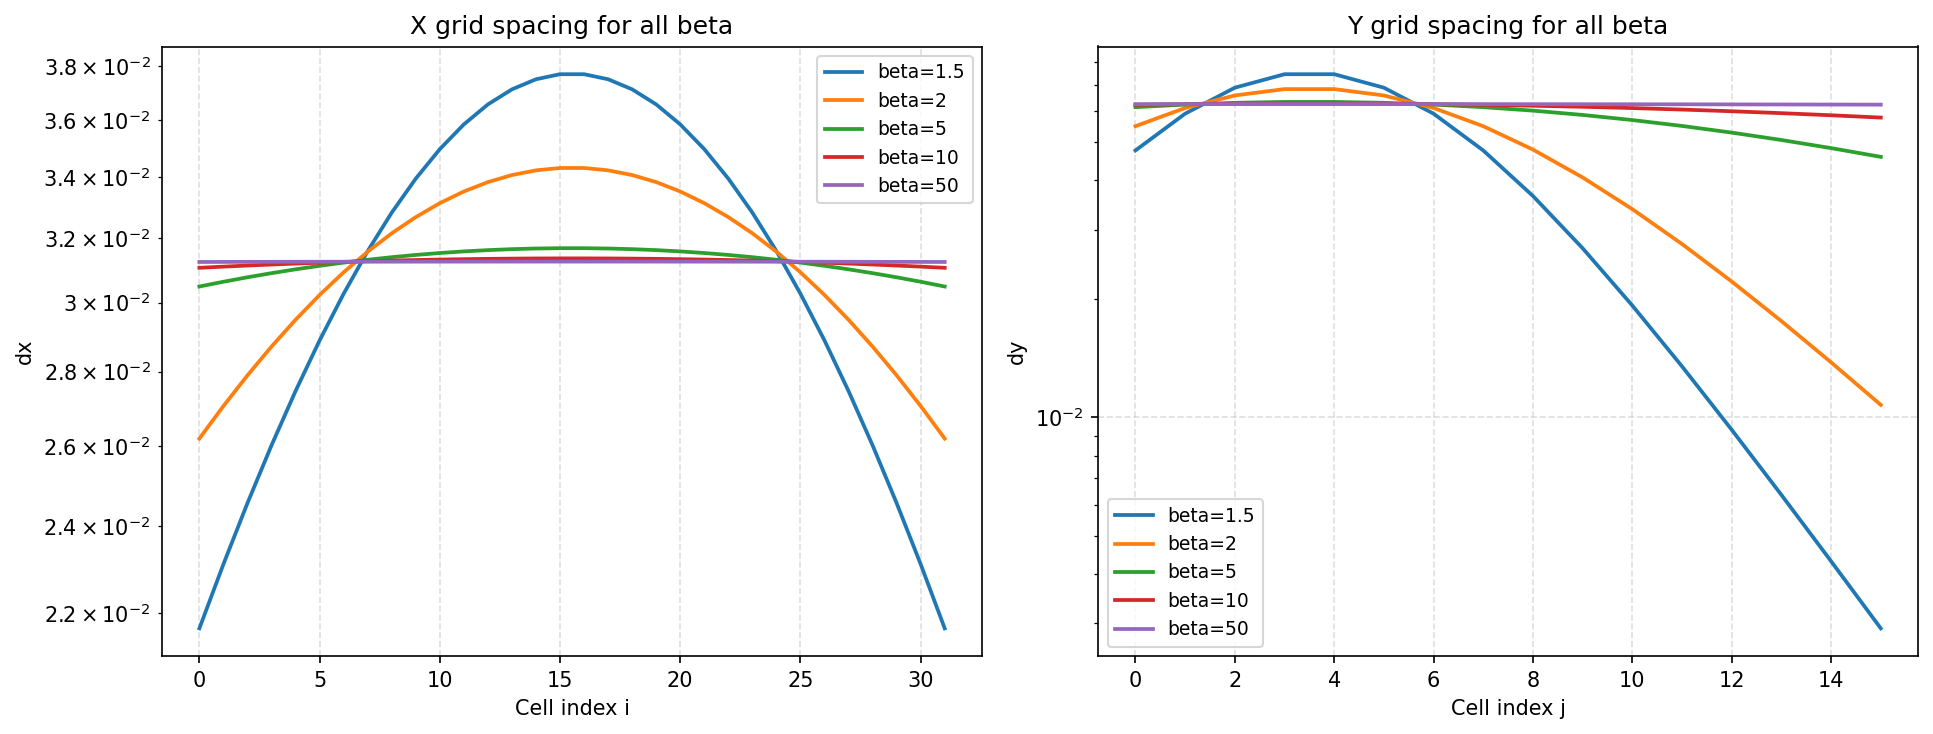
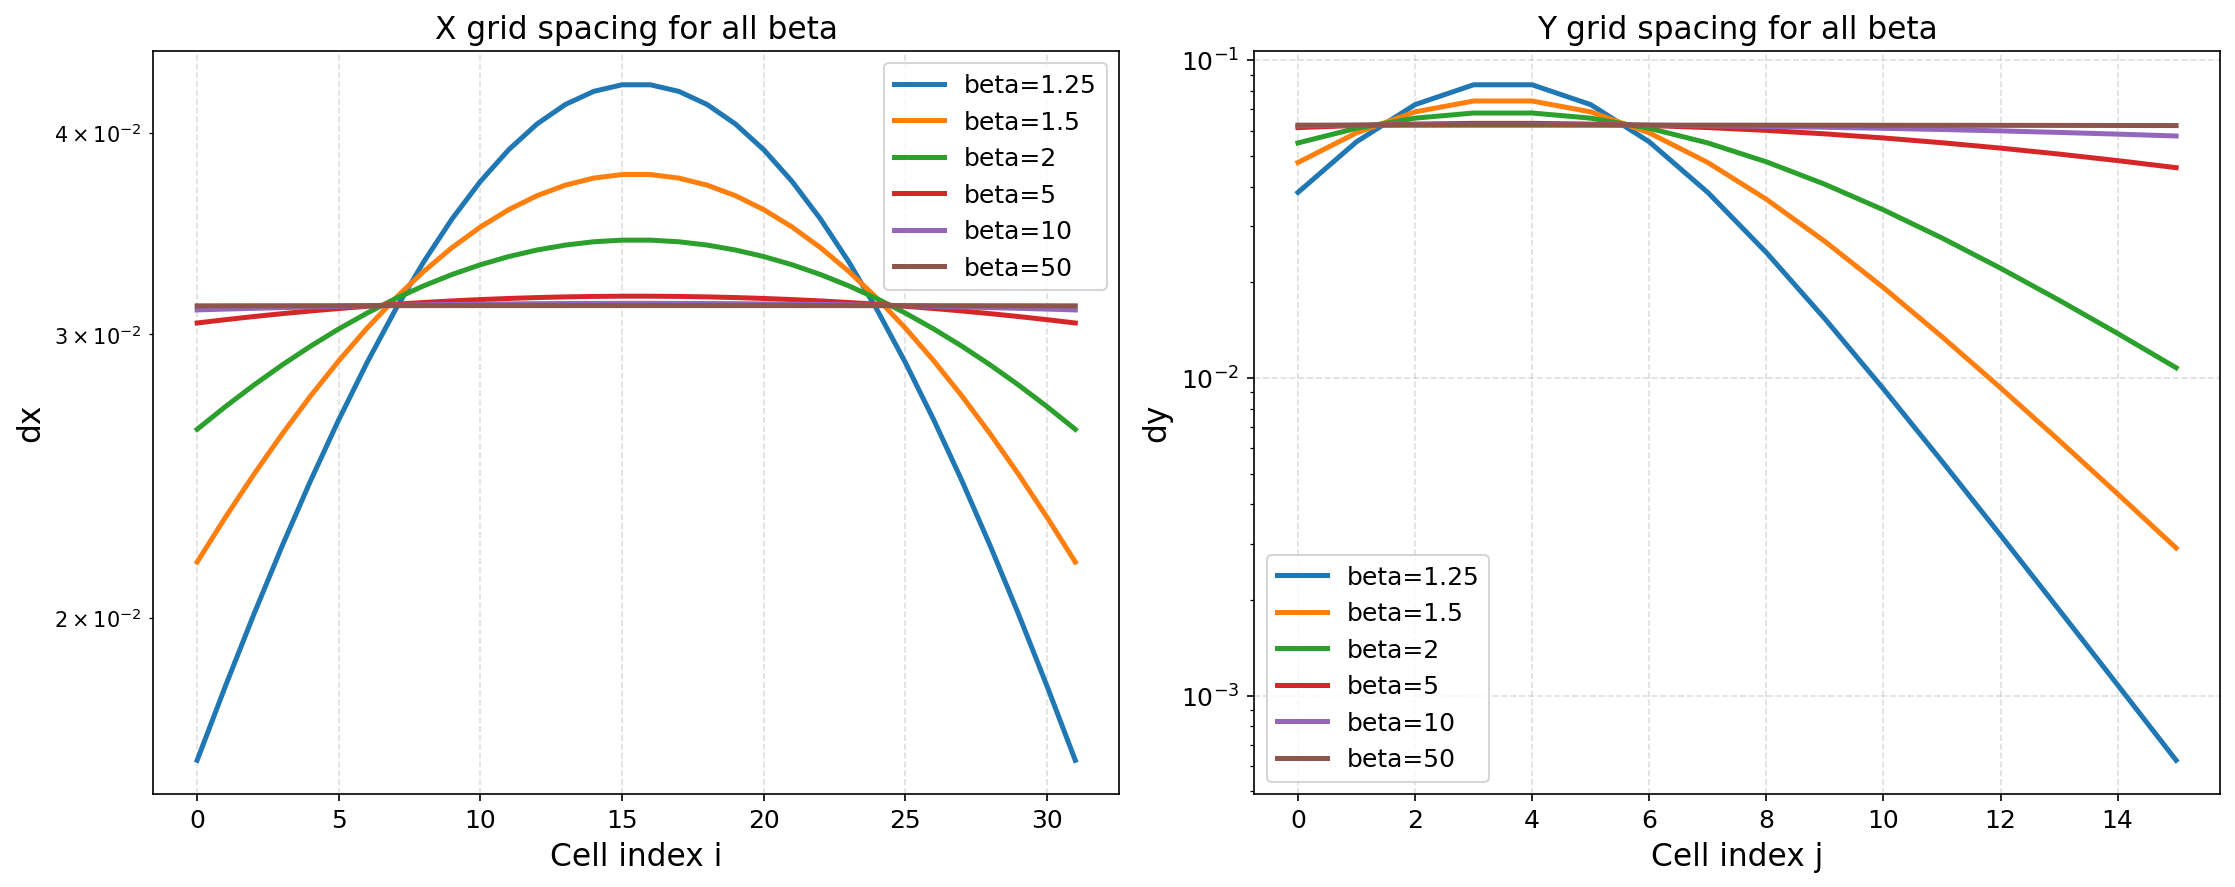
Enhance plotting scripts for Q2: update figure styles, add new plots, and improve readability; remove outdated plotting_q1_convergence.py.

diff --git a/hw1/q4_plotting.py b/hw1/q4_plotting.py
@@ -3,6 +3,13 @@ import matplotlib.pyplot as plt
 import matplotlib.ticker as ticker
 import os
 
+LABEL_FS = 16
+TITLE_FS = 17
+TICK_FS = 13
+LEGEND_FS = 14
+LINE_LW = 3.2
+EXACT_LW = 3.6
+
 def ensure_plots_dir():
     plots_dir = 'plots'
     if not os.path.exists(plots_dir):
@@ -53,12 +60,13 @@ def plot_contour(filename):
     fig1, ax = plt.subplots(figsize=(10, 8))
     
     cs = ax.contourf(X, Y, T_2d, levels=50, cmap='viridis')
-    ax.set_xlabel('x (m)', fontsize=14)
-    ax.set_ylabel('y (m)', fontsize=14)
-    ax.set_title('Numerical Solution (T)', fontsize=16, fontweight='bold')
+    ax.set_xlabel('x (m)', fontsize=LABEL_FS)
+    ax.set_ylabel('y (m)', fontsize=LABEL_FS)
+    ax.set_title('Numerical Solution (T)', fontsize=TITLE_FS, fontweight='bold')
     cbar = fig1.colorbar(cs, ax=ax)
-    cbar.set_label('Temperature (K)', fontsize=14)
-    ax.tick_params(labelsize=12)
+    cbar.set_label('Temperature (K)', fontsize=LABEL_FS)
+    cbar.ax.tick_params(labelsize=TICK_FS)
+    ax.tick_params(labelsize=TICK_FS)
     plt.tight_layout()
     save_figure(fig1, 'contour_numerical.png', plots_dir, dpi=300)
     
@@ -84,12 +92,12 @@ def plot_error(filename,a):
     print(f"Approximate slope (order of convergence): {slope:.3f}")
 
     fig, ax = plt.subplots(figsize=(9, 6))
-    ax.loglog(grid_spacing, l2err, marker='o', linewidth=2.5, markersize=8)
-    ax.set_xlabel('Grid spacing (dx)', fontsize=14)
-    ax.set_ylabel('L2 Error Norm', fontsize=14)
-    ax.set_title('Error Norm vs Grid Spacing (log Scale)', fontsize=16, fontweight='bold')
+    ax.loglog(grid_spacing, l2err, marker='o', linewidth=LINE_LW, markersize=9)
+    ax.set_xlabel('Grid spacing (dx)', fontsize=LABEL_FS)
+    ax.set_ylabel('L2 Error Norm', fontsize=LABEL_FS)
+    ax.set_title('Error Norm vs Grid Spacing (log Scale)', fontsize=TITLE_FS, fontweight='bold')
     ax.grid(True, which='both', linestyle='--', alpha=0.3, linewidth=1)
-    ax.tick_params(labelsize=12)
+    ax.tick_params(labelsize=TICK_FS)
     
     def power_of_2_formatter(x,pos):
         log_val = np.log2(x)
@@ -141,19 +149,19 @@ def plot_line_profiles_with_analytical_solution(grid_sizes, output_dir='output',
     for d in datasets:
         if d!=ref:
             ix = int(np.argmin(np.abs(d['x1d'] - x_target)))
-            ax_y.plot(d['y1d'], d['T2d'][ix, :], linewidth=3.0,
+                ax_y.plot(d['y1d'], d['T2d'][ix, :], linewidth=LINE_LW,
                     label=f"Grid size {d['nx']}x{d['ny']}")
 
     ix_ref = int(np.argmin(np.abs(ref['x1d'] - x_target)))
-    ax_y.plot(ref['y1d'], ref['Tex2d'][ix_ref, :], '--', linewidth=3.5, label='Exact (Tex)',color = "#000000")
-    ax_y.set_xlabel('y (m)', fontsize=14)
-    ax_y.set_ylabel('Temperature (K)', fontsize=14)
+    ax_y.plot(ref['y1d'], ref['Tex2d'][ix_ref, :], '--', linewidth=EXACT_LW, label='Exact (Tex)',color = "#000000")
+    ax_y.set_xlabel('y (m)', fontsize=LABEL_FS)
+    ax_y.set_ylabel('Temperature (K)', fontsize=LABEL_FS)
 
     x_tag = str(x_target).replace('.', 'p')
-    ax_y.set_title(f'Temperature Profile Along y-axis for x = {x_target}', fontsize=16, fontweight='bold')
+    ax_y.set_title(f'Temperature Profile Along y-axis for x = {x_target}', fontsize=TITLE_FS, fontweight='bold')
     ax_y.grid(True, alpha=0.3, linewidth=1)
-    ax_y.legend(fontsize=13)
-    ax_y.tick_params(labelsize=12)
+    ax_y.legend(fontsize=LEGEND_FS)
+    ax_y.tick_params(labelsize=TICK_FS)
     fig_y.tight_layout()
     save_figure(fig_y, f'y_profile_for_x{x_tag}.png', plots_dir,dpi=300)
 
@@ -163,18 +171,18 @@ def plot_line_profiles_with_analytical_solution(grid_sizes, output_dir='output',
     for d in datasets:
         if d != ref:
             jy = int(np.argmin(np.abs(d['y1d'] - y_target)))
-            ax_x.plot(d['x1d'], d['T2d'][:, jy], linewidth=3.0,
+                ax_x.plot(d['x1d'], d['T2d'][:, jy], linewidth=LINE_LW,
                     label=f"Grid size {d['nx']}x{d['ny']}")
 
     jy_ref = int(np.argmin(np.abs(ref['y1d'] - y_target)))
-    ax_x.plot(ref['x1d'], ref['Tex2d'][:, jy_ref], '--', linewidth=3.5, label='Exact (Tex)',color = "#000000")
-    ax_x.set_xlabel('x (m)', fontsize=14)
-    ax_x.set_ylabel('Temperature (K)', fontsize=14)
+    ax_x.plot(ref['x1d'], ref['Tex2d'][:, jy_ref], '--', linewidth=EXACT_LW, label='Exact (Tex)',color = "#000000")
+    ax_x.set_xlabel('x (m)', fontsize=LABEL_FS)
+    ax_x.set_ylabel('Temperature (K)', fontsize=LABEL_FS)
     y_tag = str(y_target).replace('.', 'p')
-    ax_x.set_title(f'Temperature Profile Along x-axis for y = {y_target}', fontsize=16, fontweight='bold')
+    ax_x.set_title(f'Temperature Profile Along x-axis for y = {y_target}', fontsize=TITLE_FS, fontweight='bold')
     ax_x.grid(True, alpha=0.3, linewidth=1)
-    ax_x.legend(fontsize=13)
-    ax_x.tick_params(labelsize=12)
+    ax_x.legend(fontsize=LEGEND_FS)
+    ax_x.tick_params(labelsize=TICK_FS)
     fig_x.tight_layout()
     save_figure(fig_x, f'x_profile_for_y{y_tag}.png', plots_dir,dpi=300)
 

diff --git a/hw2/plotting_grids.py b/hw2/plotting_grids.py
@@ -6,7 +6,13 @@ NX = 33
 NY = 17
 LX = 1.0
 LY = 0.5
-BETA_VALUES = [1.5, 2.0, 5.0, 10.0, 50.0]
+BETA_VALUES = [1.25, 1.5, 2.0, 5.0, 10.0, 50.0]
+LABEL_FS = 15
+TITLE_FS = 15
+TICK_FS = 12
+LEGEND_FS = 12
+GRID_LW = 1.2
+LINE_LW = 2.4
 
 os.makedirs("plots", exist_ok=True)
 
@@ -29,8 +35,9 @@ def uniform_coords(n, length):
 
 
 def make_2d_grid_plot():
-    fig, axes = plt.subplots(1, 3, figsize=(17, 5))
-    compare_betas = [None, 1.5, 10.0]
+    fig, axes = plt.subplots(3, 2, figsize=(21, 11))
+    axes = axes.ravel()
+    compare_betas = [None] + BETA_VALUES[:5]
 
     for ax, beta in zip(axes, compare_betas):
         if beta is None:
@@ -43,17 +50,18 @@ def make_2d_grid_plot():
             title = f"2D stretched grid beta={beta:g} ({NX}x{NY})"
 
         for xi in xs_x:
-            ax.axvline(xi, color="steelblue", linewidth=0.7, alpha=0.8)
+            ax.axvline(xi, color="steelblue", linewidth=GRID_LW, alpha=0.8)
         for yi in xs_y:
-            ax.axhline(yi, color="steelblue", linewidth=0.7, alpha=0.8)
+            ax.axhline(yi, color="steelblue", linewidth=GRID_LW, alpha=0.8)
 
         xx, yy = np.meshgrid(xs_x, xs_y)
-        ax.plot(xx, yy, "k.", markersize=2)
+        ax.plot(xx, yy, "k.", markersize=3)
         ax.set_xlim(-0.02, LX + 0.02)
         ax.set_ylim(-0.01, LY + 0.01)
-        ax.set_xlabel("x", fontsize=12)
-        ax.set_ylabel("y", fontsize=12)
-        ax.set_title(title, fontsize=12)
+        ax.set_xlabel("x", fontsize=LABEL_FS)
+        ax.set_ylabel("y", fontsize=LABEL_FS)
+        ax.set_title(title, fontsize=TITLE_FS)
+        ax.tick_params(labelsize=TICK_FS)
         ax.set_aspect("equal")
         ax.grid(False)
 
@@ -62,26 +70,28 @@ def make_2d_grid_plot():
 
 
 def make_spacing_plot():
-    fig, axes = plt.subplots(1, 2, figsize=(13, 5))
+    fig, axes = plt.subplots(1, 2, figsize=(15, 6))
 
     for beta in BETA_VALUES:
         dx_x = np.diff(stretched_coords(NX, LX, beta))
         dx_y = np.diff(stretched_coords(NY, LY, beta))
-        axes[0].plot(np.arange(dx_x.size), dx_x, linewidth=1.8, label=f"beta={beta:g}")
-        axes[1].plot(np.arange(dx_y.size), dx_y, linewidth=1.8, label=f"beta={beta:g}")
+        axes[0].plot(np.arange(dx_x.size), dx_x, linewidth=LINE_LW, label=f"beta={beta:g}")
+        axes[1].plot(np.arange(dx_y.size), dx_y, linewidth=LINE_LW, label=f"beta={beta:g}")
 
-    axes[0].set_title("X grid spacing for all beta")
-    axes[1].set_title("Y grid spacing for all beta")
-    axes[0].set_xlabel("Cell index i")
-    axes[1].set_xlabel("Cell index j")
-    axes[0].set_ylabel("dx")
-    axes[1].set_ylabel("dy")
+    axes[0].set_title("X grid spacing for all beta", fontsize=TITLE_FS)
+    axes[1].set_title("Y grid spacing for all beta", fontsize=TITLE_FS)
+    axes[0].set_xlabel("Cell index i", fontsize=LABEL_FS)
+    axes[1].set_xlabel("Cell index j", fontsize=LABEL_FS)
+    axes[0].set_ylabel("dx", fontsize=LABEL_FS)
+    axes[1].set_ylabel("dy", fontsize=LABEL_FS)
     axes[0].set_yscale("log")
     axes[1].set_yscale("log")
     axes[0].grid(True, linestyle="--", alpha=0.4)
     axes[1].grid(True, linestyle="--", alpha=0.4)
-    axes[0].legend(fontsize=9)
-    axes[1].legend(fontsize=9)
+    axes[0].tick_params(labelsize=TICK_FS)
+    axes[1].tick_params(labelsize=TICK_FS)
+    axes[0].legend(fontsize=LEGEND_FS)
+    axes[1].legend(fontsize=LEGEND_FS)
 
     fig.tight_layout()
     save_plot(fig, "grid_spacings_all.png")

diff --git a/hw2/plotting_q2a.py b/hw2/plotting_q2a.py
@@ -4,6 +4,13 @@ import os
 
 os.makedirs("plots", exist_ok=True)
 
+LABEL_FS = 16
+TITLE_FS = 15
+TICK_FS = 13
+LEGEND_FS = 13
+LINE_LW = 2.6
+REF_LW = 2.2
+
 def save_figure(fig, filename, dpi=300):
     filepath = f"plots/{filename}"
     fig.savefig(filepath, dpi=dpi, bbox_inches="tight")
@@ -15,23 +22,24 @@ def main():
     kdx = np.linspace(0, 2 * np.pi, 500, endpoint=False)
     r_values = [0.4, 0.5, 0.6, 0.7]
 
-    fig, ax = plt.subplots(figsize=(8, 5))
+    fig, ax = plt.subplots(figsize=(9, 6))
 
     for r in r_values:
         growth_factor = 1 - 4 * r * np.sin(kdx / 2) ** 2
         sigma_dt = np.full_like(growth_factor, np.nan, dtype=float)
         valid = growth_factor > 0
         sigma_dt[valid] = np.log(growth_factor[valid])
-        ax.plot(kdx, sigma_dt, linewidth=2, label=f"r = {r}")
+        ax.plot(kdx, sigma_dt, linewidth=LINE_LW, label=f"r = {r}")
 
-    ax.axhline(0, color="black", linestyle="--", linewidth=1.5, label="sigma = 0")
-    ax.set_xlabel("k delta x", fontsize=14)
-    ax.set_ylabel("sigma delta t", fontsize=14)
-    ax.set_title("Von Neumann stability: growth rate vs wavenumber", fontsize=14)
+    ax.axhline(0, color="black", linestyle="--", linewidth=REF_LW, label="sigma = 0")
+    ax.set_xlabel("k delta x", fontsize=LABEL_FS)
+    ax.set_ylabel("sigma delta t", fontsize=LABEL_FS)
+    ax.set_title("Von Neumann stability: growth rate vs wavenumber", fontsize=TITLE_FS)
     ax.set_xticks([0, np.pi / 2, np.pi, 3 * np.pi / 2, 2 * np.pi])
-    ax.set_xticklabels(["0", "pi/2", "pi", "3pi/2", "2pi"], fontsize=12)
+    ax.set_xticklabels(["0", "pi/2", "pi", "3pi/2", "2pi"], fontsize=TICK_FS)
     ax.set_ylim([-5, 1])
-    ax.legend(fontsize=12)
+    ax.tick_params(labelsize=TICK_FS)
+    ax.legend(fontsize=LEGEND_FS)
     ax.grid(True, alpha=0.3)
 
     fig.tight_layout()

diff --git a/hw2/plotting_q2b.py b/hw2/plotting_q2b.py
@@ -5,7 +5,13 @@ import os
 
 os.makedirs("plots", exist_ok=True)
 
-fig, axes = plt.subplots(2, 2, figsize=(12, 8))
+LABEL_FS = 15
+TITLE_FS = 15
+TICK_FS = 12
+C_BAR_FS = 12
+LINE_LW = 2.3
+
+fig, axes = plt.subplots(2, 2, figsize=(14, 10))
 
 for ax, (folder, r, status) in zip(axes.flatten(), [
     ("output2/r040", 0.40, "Stable"),
@@ -19,19 +25,22 @@ for ax, (folder, r, status) in zip(axes.flatten(), [
     colors = plt.cm.viridis(np.linspace(0.1, 0.9, n))
     
     for i, (x, t) in enumerate(snaps):
-        ax.plot(x, t, color=colors[i], lw=1.6, label=f"t-step {i+1}" if i in (0, n-1) else None)
+        ax.plot(x, t, color=colors[i], lw=LINE_LW, label=f"t-step {i+1}" if i in (0, n-1) else None)
     
     sm = plt.cm.ScalarMappable(cmap="viridis", norm=plt.Normalize(vmin=1, vmax=n))
     sm.set_array([])
-    plt.colorbar(sm, ax=ax).set_label("time step index", fontsize=10)
+    cbar = plt.colorbar(sm, ax=ax)
+    cbar.set_label("time step index", fontsize=C_BAR_FS)
+    cbar.ax.tick_params(labelsize=TICK_FS)
     
-    ax.set_title(f"{status}: r = {r}", fontsize=13)
-    ax.set_xlabel("$x$", fontsize=12)
-    ax.set_ylabel("$T$", fontsize=12)
+    ax.set_title(f"{status}: r = {r}", fontsize=TITLE_FS)
+    ax.set_xlabel("$x$", fontsize=LABEL_FS)
+    ax.set_ylabel("$T$", fontsize=LABEL_FS)
     ax.grid(True, alpha=0.3)
-    ax.tick_params(labelsize=11)
+    ax.tick_params(labelsize=TICK_FS)
+    ax.legend(fontsize=12)
 
-fig.suptitle("Q2(b): Forward Euler - stable vs unstable behaviour", fontsize=14)
+fig.suptitle("Q2(b): Forward Euler - stable vs unstable behaviour", fontsize=17)
 fig.tight_layout()
 outpath = "plots/q2b_stability.png"
 fig.savefig(outpath, dpi=150, bbox_inches="tight")

diff --git a/hw2/plotting_q2c.py b/hw2/plotting_q2c.py
@@ -4,6 +4,13 @@ import os
 
 os.makedirs("plots", exist_ok=True)
 
+LABEL_FS = 16
+TITLE_FS = 15
+TICK_FS = 13
+LEGEND_FS = 13
+LINE_LW = 2.6
+REF_LW = 2.2
+
 def main():
     data = np.loadtxt("output2/error2.dat")
     nx, err = (data.reshape(1, -1) if data.ndim == 1 else data)[:, :2].T
@@ -15,19 +22,19 @@ def main():
     sat = np.where(np.diff(err) >= 0)[0]
     sat_idx = sat[0] + 1 if sat.size else None
 
-    fig, ax = plt.subplots(figsize=(8, 5))
-    ax.loglog(nx, err, "o-", lw=2, ms=7, color="steelblue", label="$L_2$ error")
-    ax.loglog(nx, err_m2, "k:", lw=1.5, label="slope $-2$")
+    fig, ax = plt.subplots(figsize=(9, 6))
+    ax.loglog(nx, err, "o-", lw=LINE_LW, ms=8, color="steelblue", label="$L_2$ error")
+    ax.loglog(nx, err_m2, "k:", lw=REF_LW, label="slope $-2$")
 
     if sat_idx is not None:
-        ax.loglog(nx[sat_idx], err[sat_idx], "r^", ms=10, label=f"saturation begins (nx={int(nx[sat_idx])})")
+        ax.loglog(nx[sat_idx], err[sat_idx], "r^", ms=11, label=f"saturation begins (nx={int(nx[sat_idx])})")
 
-    ax.set_xlabel("$n_x$", fontsize=14)
-    ax.set_ylabel("$L_2$ error", fontsize=14)
-    ax.set_title("Q2(c): Convergence - forward Euler, 2nd-order central difference", fontsize=13)
-    ax.legend(fontsize=12)
+    ax.set_xlabel("$n_x$", fontsize=LABEL_FS)
+    ax.set_ylabel("$L_2$ error", fontsize=LABEL_FS)
+    ax.set_title("Q2(c): Convergence - forward Euler, 2nd-order central difference", fontsize=TITLE_FS)
+    ax.legend(fontsize=LEGEND_FS)
     ax.grid(True, which="both", alpha=0.3)
-    ax.tick_params(labelsize=12)
+    ax.tick_params(labelsize=TICK_FS)
 
     fig.tight_layout()
     out_file = "plots/q2c_convergence.png"

diff --git a/hw2/plotting_q1.py b/hw2/plotting_q1.py
@@ -5,6 +5,13 @@ import os
 
 os.makedirs("plots", exist_ok=True)
 
+LABEL_FS = 16
+TITLE_FS = 15
+TICK_FS = 13
+LEGEND_FS = 13
+LINE_LW = 2.6
+REF_LW = 2.2
+
 for f in sorted(glob.glob("output1/error_b*.dat")):
     data = np.loadtxt(f)
     if data.ndim == 1:
@@ -17,15 +24,15 @@ for f in sorted(glob.glob("output1/error_b*.dat")):
     nx_ref = np.array([nx[0], nx[-1]])
     err_ref = err[0] * (nx[0] / nx_ref) ** 2
     
-    fig, ax = plt.subplots(figsize=(7, 5))
-    ax.loglog(nx, err, "o-", lw=2, ms=7, label=rf"$\beta = {beta_val:g}$")
-    ax.loglog(nx_ref, err_ref, "k:", lw=1.5, label="slope $-2$")
-    ax.set_xlabel("$n_x$", fontsize=14)
-    ax.set_ylabel("$L_2$ error", fontsize=14)
-    ax.set_title(rf"Order of accuracy - stretched grid, $\beta = {beta_val:g}$ (Q1)", fontsize=13)
-    ax.legend(fontsize=12)
+    fig, ax = plt.subplots(figsize=(8, 6))
+    ax.loglog(nx, err, "o-", lw=LINE_LW, ms=8, label=rf"$\beta = {beta_val:g}$")
+    ax.loglog(nx_ref, err_ref, "k:", lw=REF_LW, label="slope $-2$")
+    ax.set_xlabel("$n_x$", fontsize=LABEL_FS)
+    ax.set_ylabel("$L_2$ error", fontsize=LABEL_FS)
+    ax.set_title(rf"Order of accuracy - stretched grid, $\beta = {beta_val:g}$ (Q1)", fontsize=TITLE_FS)
+    ax.legend(fontsize=LEGEND_FS)
     ax.grid(True, which="both", alpha=0.3)
-    ax.tick_params(labelsize=12)
+    ax.tick_params(labelsize=TICK_FS)
     
     fig.tight_layout()
     outfile = f"plots/q1_convergence_b{beta_tag}.png"
